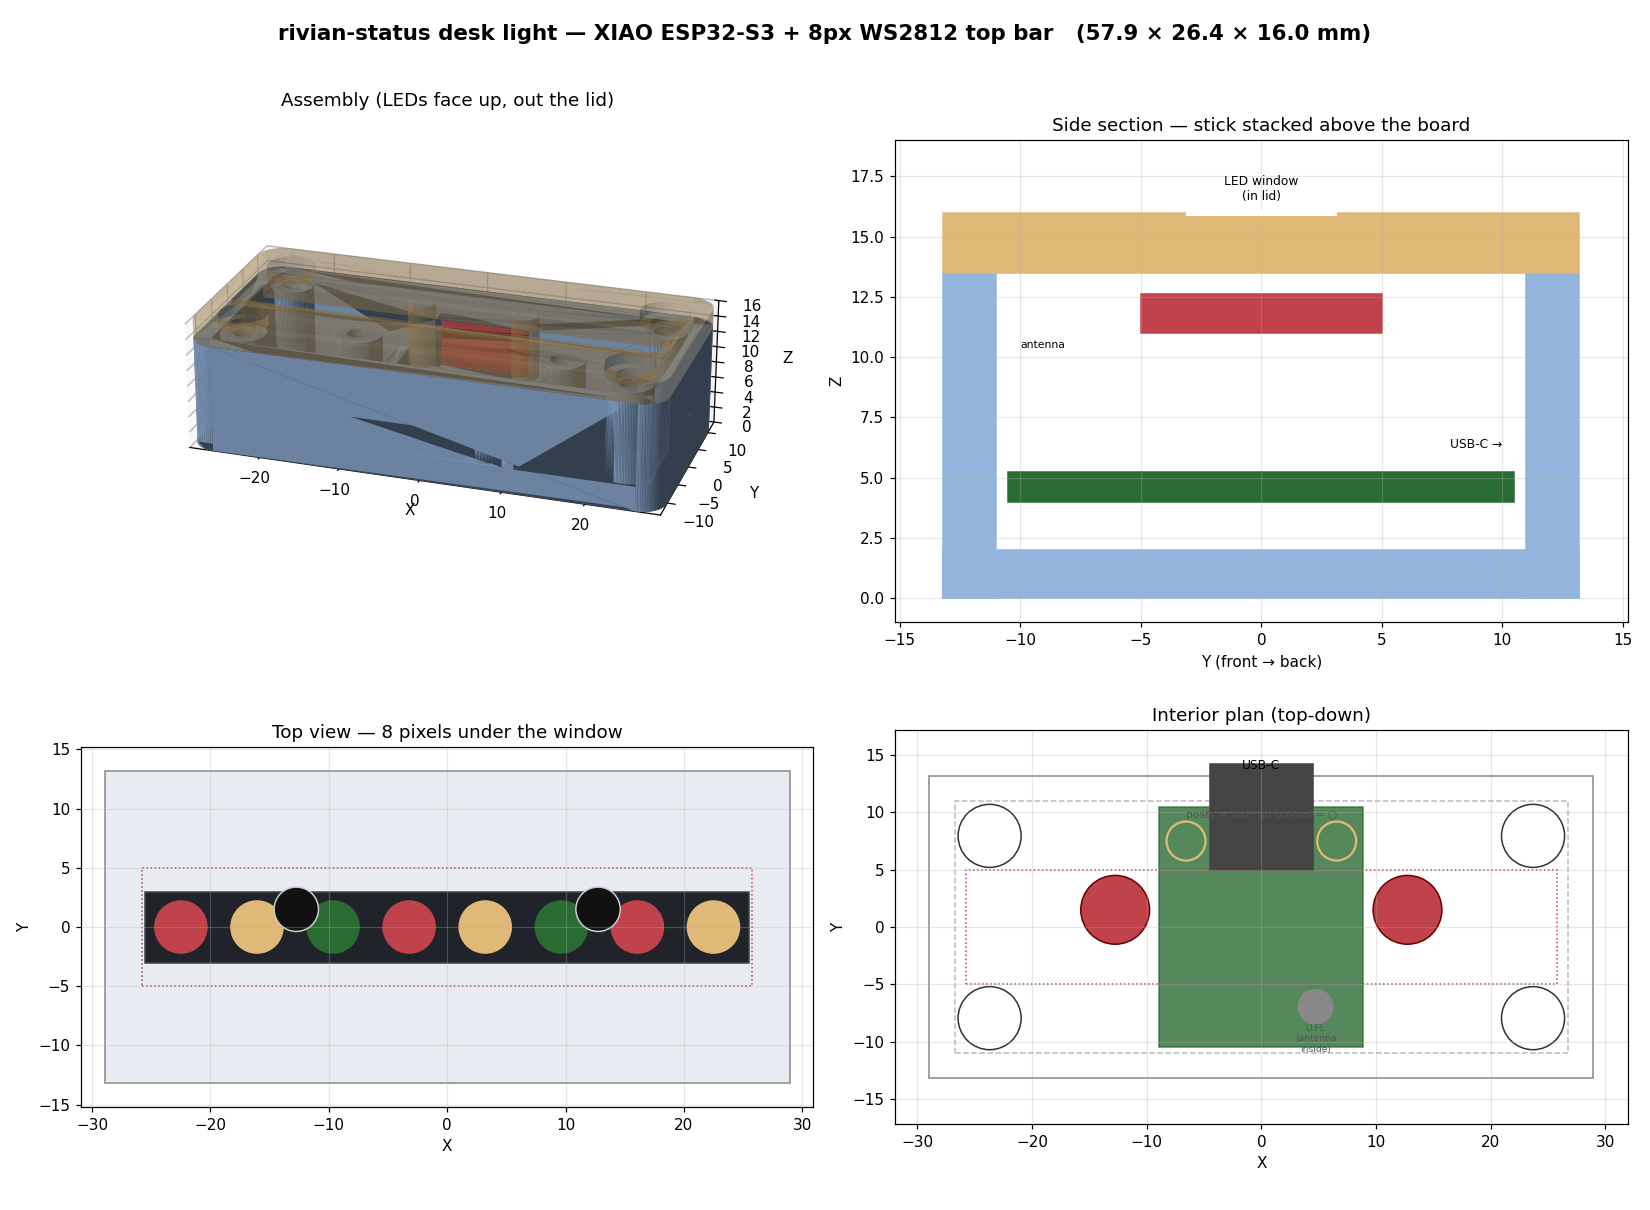
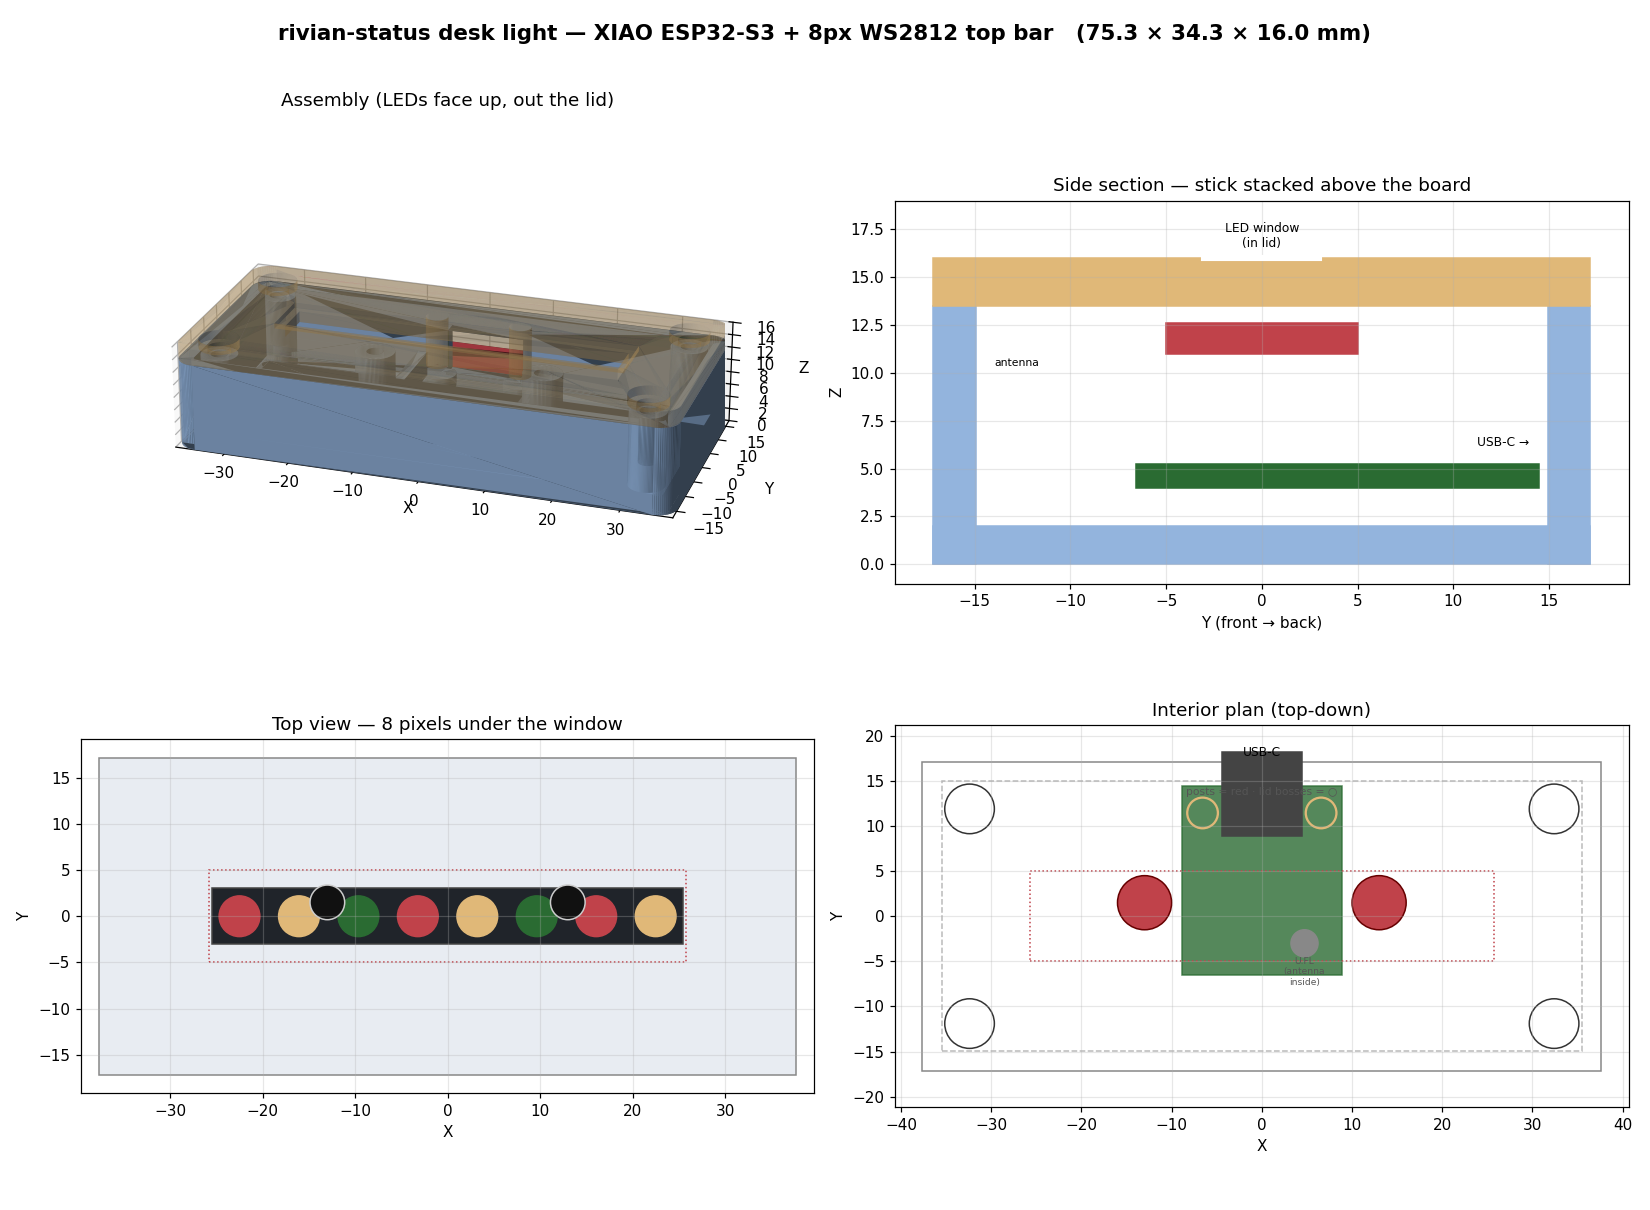
Enclosure: roomier box — +30% width and depth, 26 mm strip posts
Give the strip and its soldered end-wires real working room. Widen the box ~30%
in X (STRIP_END_GAP) so the wires clear the strip ends and the lid bosses sit well
outside them; deepen ~30% in Y (BOARD_FRONT_GAP) with the board pushed to the back
wall (USB-C stays proud) and the extra depth as a front bay for wires + the antenna
coil. Strip-mount posts moved to 26 mm centre-to-centre (holes ±13.0).

Outer size now 75.3 x 34.3 x 16.0 mm.

Claude-Session: https://claude.ai/code/session_01AyP9gmoeDzbHnMUUyQRugh

diff --git a/hardware/status-light/box/case_params.py b/hardware/status-light/box/case_params.py
@@ -66,7 +66,7 @@ LED_LIT_SPAN = 45.0    # centre-of-first-LED to centre-of-last
 # Cx caps / pad column), ~1/4 and ~3/4 along the length.
 LED_HOLE_COUNT = 2
 LED_HOLE_D     = 3.75   # measured hole Ø
-LED_HOLE_X     = [-12.75, 12.75]   # each hole's X-offset from the stick centre (measured)
+LED_HOLE_X     = [-13.0, 13.0]     # each hole's X from the stick centre (26 mm centre-to-centre)
 LED_5050       = 5.0    # the 5050 emitter is 5.0 mm square
 # offset of the hole row from the LED optical row, toward one long edge (both holes on the
 # same side).  Dialled in against the real board -- the posts read 3 mm too far back at 4.5:
@@ -89,6 +89,16 @@ WALL        = 2.2
 FLOOR_T     = 2.0
 LID_T       = 2.5      # thicker: takes the countersinks + the window rebate
 STANDOFF    = 2.0      # board off the floor (clears bottom pads / solder)
+
+# Generous room beyond EACH strip end (was 1.0, too tight once the DIN/5V/GND wires are
+# soldered to the end pads).  This widens the box ~30% in X and pushes the lid screw bosses
+# well clear of the strip ends so the wiring has somewhere to go.
+STRIP_END_GAP = 9.7
+
+# Depth (Y): the board sits against the BACK wall so the USB-C stays proud; the extra depth
+# (a ~30% longer box) becomes a roomy FRONT bay for the strip-end wires + the antenna coil.
+BOARD_BACK_GAP  = 0.5    # board's USB-C edge to the back wall (USB pokes through)
+BOARD_FRONT_GAP = 8.4    # front working bay (wires + U.FL antenna)
 
 BOARD_RIB_T = 1.5
 BOARD_RIB_H = STANDOFF + PCB_T + 0.6
@@ -120,9 +130,9 @@ SEG         = 96
 # ======================================================================================
 #  DERIVED  (nothing below is a free choice)
 # ======================================================================================
-IN_X   = LED_L + 2.0                       # interior clears the stick
+IN_X   = LED_L + 2 * STRIP_END_GAP         # interior = stick + wire room each end
 OUT_X  = IN_X + 2 * WALL
-IN_Y   = PCB_L + 1.0                        # board length + 0.5 gap each end
+IN_Y   = PCB_L + BOARD_BACK_GAP + BOARD_FRONT_GAP   # board + back gap + front working bay
 OUT_Y  = IN_Y + 2 * WALL
 IN_X2, IN_Y2 = IN_X / 2, IN_Y / 2
 OUT_X2, OUT_Y2 = OUT_X / 2, OUT_Y / 2
@@ -135,11 +145,11 @@ LED_MID_Z = STRIP_PCB_TOP_Z            # LED emitter plane ≈ PCB top
 OUT_Z  = STRIP_DOME_TOP_Z + LED_BELOW_TOP
 SHELL_H = OUT_Z - LID_T
 
-# board pose: centred in X and Y, USB-C at the +Y edge near the back wall
+# board pose: centred in X; pushed to the BACK wall in Y so the USB-C stays proud
 BOARD_CX = 0.0
-BOARD_CY = 0.0
-PCB_FRONT_Y = BOARD_CY - PCB_L / 2     # −Y (antenna) edge
-PCB_BACK_Y  = BOARD_CY + PCB_L / 2     # +Y (USB-C) edge
+PCB_BACK_Y  = IN_Y2 - BOARD_BACK_GAP    # +Y (USB-C) edge, near the back wall
+PCB_FRONT_Y = PCB_BACK_Y - PCB_L        # −Y (antenna) edge
+BOARD_CY    = (PCB_FRONT_Y + PCB_BACK_Y) / 2
 PCB_BACK_Z  = FLOOR_T + STANDOFF
 PCB_TOP_Z   = PCB_BACK_Z + PCB_T
 

diff --git a/hardware/MEASUREMENTS.md b/hardware/MEASUREMENTS.md
@@ -51,7 +51,7 @@ standoffs.
 | 5050 emitter size | **5.0** sq | SPEC |
 | Emitter extent (lit span + emitter) | **50.0** | DERIVED |
 | Mounting holes | **2**, Ø **3.75** | MEAS |
-| Hole positions along length (±X from centre) | **±12.75** | MEAS |
+| Hole positions along length (±X from centre) | **±13.0** (26 mm apart) | MEAS |
 | Hole offset off the LED row (toward one edge) | **1.5** | MEAS (dialled vs board) |
 
 ## 3. Fasteners  (M3 self-tapping into printed bosses — source: CHOICE/SPEC)
@@ -77,9 +77,11 @@ standoffs.
 | Lid board-clamp pads | 2× Ø3.4, **13.1 mm apart**, straddling the 9 mm USB-C shell | DERIVED |
 | USB-C port (back wall, X × Z) | 12.0 × 7.0 | CHOICE |
 | Antenna pigtail exit slot | **none** (`ANT_EXIT = False`, antenna coils inside) | CHOICE |
-| **Outer size (X × Y × Z)** | **57.9 × 26.4 × 16.0** | DERIVED |
+| Room beyond each strip end (`STRIP_END_GAP`) | 9.7 (for the soldered end-wires) | CHOICE |
+| Front working bay (`BOARD_FRONT_GAP`) | 8.4 (wires + antenna coil) | CHOICE |
+| **Outer size (X × Y × Z)** | **75.3 × 34.3 × 16.0** | DERIVED |
 | Shell rim height (`SHELL_H`) | 13.5 | DERIVED |
-| Interior (X × Y) | 53.5 × 22.0 | DERIVED |
+| Interior (X × Y) | 70.9 × 29.9 | DERIVED |
 
 ### Layout in one line
 XIAO lies flat on the floor (centred), USB-C proud out the **back wall**; the LED stick is

diff --git a/hardware/status-light/board_spec.md b/hardware/status-light/board_spec.md
@@ -70,7 +70,7 @@ Not in any vendor CAD, so these are **caliper values** the user measured off the
 | Width (short edge) | **10 mm** |
 | Total thickness incl. LEDs | **3.0 mm** → PCB **1.6** + domes **1.4** |
 | Lit span (first→last LED centre) | **45 mm** (emitter extent ≈ 50 mm) |
-| Mounting holes | **2**, Ø **3.75 mm**, at **±12.75 mm** along the length from centre |
+| Mounting holes | **2**, Ø **3.75 mm**, at **±13.0 mm** along the length (26 mm apart) |
 | Hole offset from the LED row | **1.5 mm** to one long edge (dialled in vs the board) |
 
 From the board photo the holes are off to one long edge (by the Cx caps / pad column),

diff --git a/hardware/status-light/box/README.md b/hardware/status-light/box/README.md
@@ -6,7 +6,7 @@ onto two posts, the lid to four side-wall bosses. USB-C exits the **back wall** 
 fully proud); the U.FL antenna coils **inside** for now (a front-wall exit slot is a
 one-flag toggle, `ANT_EXIT`).
 
-**Outer size:** ~60.4 × 26.4 × 17.0 mm (recomputes from the params).
+**Outer size:** ~75.3 × 34.3 × 16.0 mm (recomputes from the params).
 
 ## Parts
 | File | What |